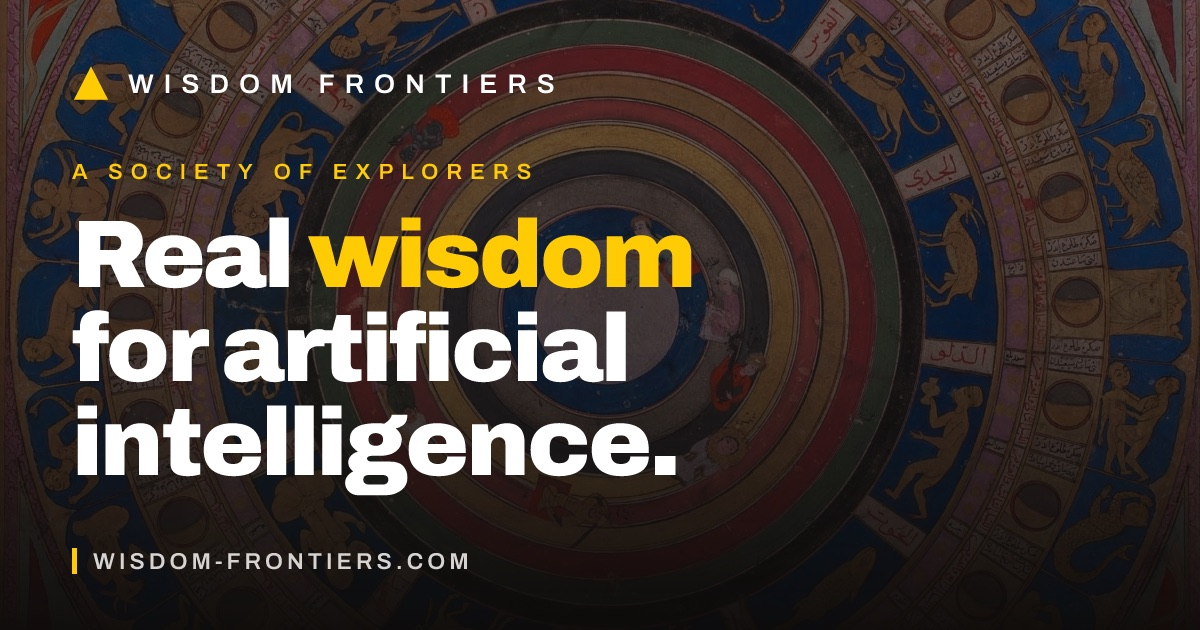
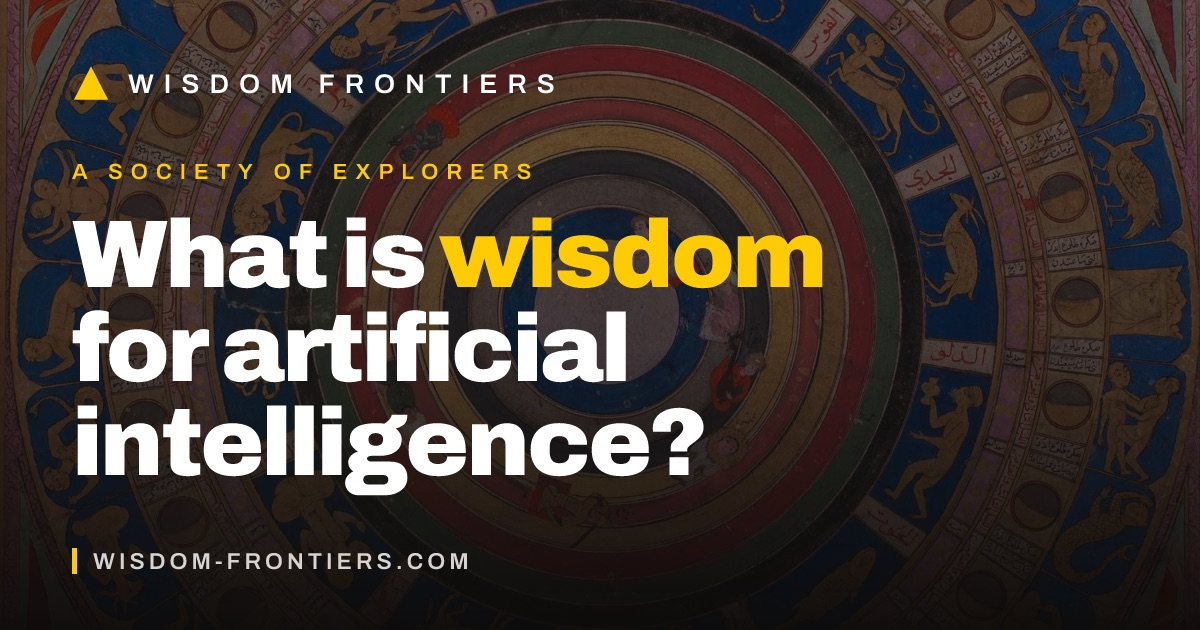
OG share image: new headline

Changed region(s): [[0.0617, 0.3317, 0.7092, 0.4825], [0.5242, 0.6333, 0.5858, 0.754]]

diff --git a/scripts/og-image-source.tsx b/scripts/og-image-source.tsx
@@ -9,7 +9,7 @@ import { ImageResponse } from "next/og";
 import { readFile } from "node:fs/promises";
 import { join } from "node:path";
 
-export const alt = "Wisdom Frontiers — Real wisdom for artificial intelligence";
+export const alt = "Wisdom Frontiers — What is wisdom for artificial intelligence?";
 export const size = { width: 1200, height: 630 };
 export const contentType = "image/png";
 
@@ -134,11 +134,11 @@ export default async function OpengraphImage() {
               }}
             >
               <div style={{ display: "flex" }}>
-                <span>Real&nbsp;</span>
+                <span>What is&nbsp;</span>
                 <span style={{ color: YELLOW }}>wisdom</span>
               </div>
               <div style={{ display: "flex" }}>for artificial</div>
-              <div style={{ display: "flex" }}>intelligence.</div>
+              <div style={{ display: "flex" }}>intelligence?</div>
             </div>
           </div>
 
